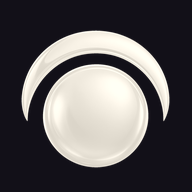
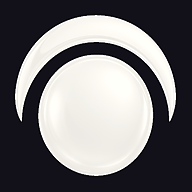
Iconos Android: any + maskable, densidades 48-512

Changed region(s): [[0.0625, 0.0625, 0.9375, 0.9375]]

diff --git a/index.html b/index.html
@@ -79,10 +79,12 @@
 <link rel="preload" href="/intro-poster.jpg" as="image">
 <meta http-equiv="Permissions-Policy" content="camera=(), microphone=(), geolocation=()">
 <link rel="icon" href="/favicon.svg" type="image/svg+xml">
-<link rel="apple-touch-icon" href="/icon-180.png">
-<link rel="apple-touch-icon" sizes="180x180" href="/icon-180.png">
-<link rel="apple-touch-icon" sizes="192x192" href="/icon-192.png">
-<link rel="manifest" href="/manifest.webmanifest">
+<link rel="icon" type="image/png" sizes="48x48" href="/icon-48.png?v=and2">
+<link rel="icon" type="image/png" sizes="192x192" href="/icon-192.png?v=and2">
+<link rel="apple-touch-icon" href="/icon-180.png?v=and2">
+<link rel="apple-touch-icon" sizes="180x180" href="/icon-180.png?v=and2">
+<link rel="apple-touch-icon" sizes="192x192" href="/icon-192.png?v=and2">
+<link rel="manifest" href="/manifest.webmanifest?v=and2">
 <style>:root {
   --bg: #121018; --bg-2: #1b1a22; --bg-3: #24222c; --line: #2e2b36;
   --gold: #d4b06a; --gold-dim: #8a7344; --cream: #f7f1e8;
@@ -2589,7 +2591,7 @@ function nudgeGym() {
   const body = "Día pendiente. ¿Hoy o lo pasamos?";
   if (navigator.serviceWorker && navigator.serviceWorker.ready) {
     navigator.serviceWorker.ready.then((reg) => {
-      reg.showNotification("NiuBision", { body, icon: "/icon-180.png", tag: "nb-nudge", badge: "/favicon.svg" });
+      reg.showNotification("NiuBision", { body, icon: "/icon-192.png", tag: "nb-nudge", badge: "/icon-96.png" });
     }).catch(() => { try { new Notification("NiuBision", { body }); } catch (e) {} });
   } else {
     try { new Notification("NiuBision", { body }); } catch (e) {}
@@ -6965,7 +6967,7 @@ async function boot() {
     }
   }
   if ("serviceWorker" in navigator) {
-    navigator.serviceWorker.register("/sw.js?v=10").then((reg) => {
+    navigator.serviceWorker.register("/sw.js?v=11").then((reg) => {
       if (reg.sync) reg.sync.register("nb-sync").catch(() => {});
       if (reg.periodicSync) reg.periodicSync.register("nb-sync", { minInterval: 15 * 60 * 1000 }).catch(() => {});
     }).catch(() => {});

diff --git a/public/index.html b/public/index.html
@@ -79,10 +79,12 @@
 <link rel="preload" href="/intro-poster.jpg" as="image">
 <meta http-equiv="Permissions-Policy" content="camera=(), microphone=(), geolocation=()">
 <link rel="icon" href="/favicon.svg" type="image/svg+xml">
-<link rel="apple-touch-icon" href="/icon-180.png">
-<link rel="apple-touch-icon" sizes="180x180" href="/icon-180.png">
-<link rel="apple-touch-icon" sizes="192x192" href="/icon-192.png">
-<link rel="manifest" href="/manifest.webmanifest">
+<link rel="icon" type="image/png" sizes="48x48" href="/icon-48.png?v=and2">
+<link rel="icon" type="image/png" sizes="192x192" href="/icon-192.png?v=and2">
+<link rel="apple-touch-icon" href="/icon-180.png?v=and2">
+<link rel="apple-touch-icon" sizes="180x180" href="/icon-180.png?v=and2">
+<link rel="apple-touch-icon" sizes="192x192" href="/icon-192.png?v=and2">
+<link rel="manifest" href="/manifest.webmanifest?v=and2">
 <style>:root {
   --bg: #121018; --bg-2: #1b1a22; --bg-3: #24222c; --line: #2e2b36;
   --gold: #d4b06a; --gold-dim: #8a7344; --cream: #f7f1e8;
@@ -2589,7 +2591,7 @@ function nudgeGym() {
   const body = "Día pendiente. ¿Hoy o lo pasamos?";
   if (navigator.serviceWorker && navigator.serviceWorker.ready) {
     navigator.serviceWorker.ready.then((reg) => {
-      reg.showNotification("NiuBision", { body, icon: "/icon-180.png", tag: "nb-nudge", badge: "/favicon.svg" });
+      reg.showNotification("NiuBision", { body, icon: "/icon-192.png", tag: "nb-nudge", badge: "/icon-96.png" });
     }).catch(() => { try { new Notification("NiuBision", { body }); } catch (e) {} });
   } else {
     try { new Notification("NiuBision", { body }); } catch (e) {}
@@ -6965,7 +6967,7 @@ async function boot() {
     }
   }
   if ("serviceWorker" in navigator) {
-    navigator.serviceWorker.register("/sw.js?v=10").then((reg) => {
+    navigator.serviceWorker.register("/sw.js?v=11").then((reg) => {
       if (reg.sync) reg.sync.register("nb-sync").catch(() => {});
       if (reg.periodicSync) reg.periodicSync.register("nb-sync", { minInterval: 15 * 60 * 1000 }).catch(() => {});
     }).catch(() => {});

diff --git a/public/niubision.html b/public/niubision.html
@@ -79,10 +79,12 @@
 <link rel="preload" href="/intro-poster.jpg" as="image">
 <meta http-equiv="Permissions-Policy" content="camera=(), microphone=(), geolocation=()">
 <link rel="icon" href="/favicon.svg" type="image/svg+xml">
-<link rel="apple-touch-icon" href="/icon-180.png">
-<link rel="apple-touch-icon" sizes="180x180" href="/icon-180.png">
-<link rel="apple-touch-icon" sizes="192x192" href="/icon-192.png">
-<link rel="manifest" href="/manifest.webmanifest">
+<link rel="icon" type="image/png" sizes="48x48" href="/icon-48.png?v=and2">
+<link rel="icon" type="image/png" sizes="192x192" href="/icon-192.png?v=and2">
+<link rel="apple-touch-icon" href="/icon-180.png?v=and2">
+<link rel="apple-touch-icon" sizes="180x180" href="/icon-180.png?v=and2">
+<link rel="apple-touch-icon" sizes="192x192" href="/icon-192.png?v=and2">
+<link rel="manifest" href="/manifest.webmanifest?v=and2">
 <style>:root {
   --bg: #121018; --bg-2: #1b1a22; --bg-3: #24222c; --line: #2e2b36;
   --gold: #d4b06a; --gold-dim: #8a7344; --cream: #f7f1e8;
@@ -2589,7 +2591,7 @@ function nudgeGym() {
   const body = "Día pendiente. ¿Hoy o lo pasamos?";
   if (navigator.serviceWorker && navigator.serviceWorker.ready) {
     navigator.serviceWorker.ready.then((reg) => {
-      reg.showNotification("NiuBision", { body, icon: "/icon-180.png", tag: "nb-nudge", badge: "/favicon.svg" });
+      reg.showNotification("NiuBision", { body, icon: "/icon-192.png", tag: "nb-nudge", badge: "/icon-96.png" });
     }).catch(() => { try { new Notification("NiuBision", { body }); } catch (e) {} });
   } else {
     try { new Notification("NiuBision", { body }); } catch (e) {}
@@ -6965,7 +6967,7 @@ async function boot() {
     }
   }
   if ("serviceWorker" in navigator) {
-    navigator.serviceWorker.register("/sw.js?v=10").then((reg) => {
+    navigator.serviceWorker.register("/sw.js?v=11").then((reg) => {
       if (reg.sync) reg.sync.register("nb-sync").catch(() => {});
       if (reg.periodicSync) reg.periodicSync.register("nb-sync", { minInterval: 15 * 60 * 1000 }).catch(() => {});
     }).catch(() => {});

diff --git a/public/sw.js b/public/sw.js
@@ -1,11 +1,16 @@
-const CACHE = "nb-offline-v10";
+const CACHE = "nb-offline-v11";
 const SHELL = [
   "/",
   "/index.html",
   "/favicon.svg",
   "/logo.png",
+  "/icon-48.png",
+  "/icon-72.png",
+  "/icon-96.png",
+  "/icon-144.png",
   "/icon-180.png",
   "/icon-192.png",
+  "/icon-192-maskable.png",
   "/icon-512.png",
   "/icon-512-maskable.png",
   "/intro-poster.jpg",

diff --git a/sw.js b/sw.js
@@ -1,11 +1,16 @@
-const CACHE = "nb-offline-v10";
+const CACHE = "nb-offline-v11";
 const SHELL = [
   "/",
   "/index.html",
   "/favicon.svg",
   "/logo.png",
+  "/icon-48.png",
+  "/icon-72.png",
+  "/icon-96.png",
+  "/icon-144.png",
   "/icon-180.png",
   "/icon-192.png",
+  "/icon-192-maskable.png",
   "/icon-512.png",
   "/icon-512-maskable.png",
   "/intro-poster.jpg",
